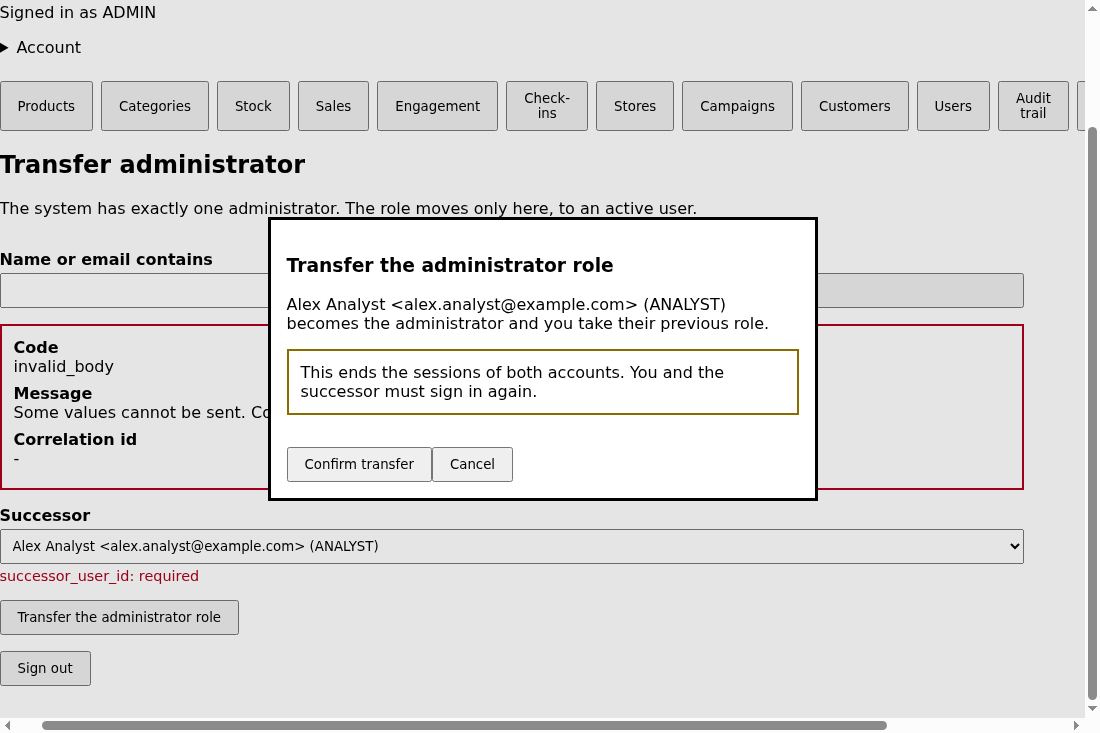
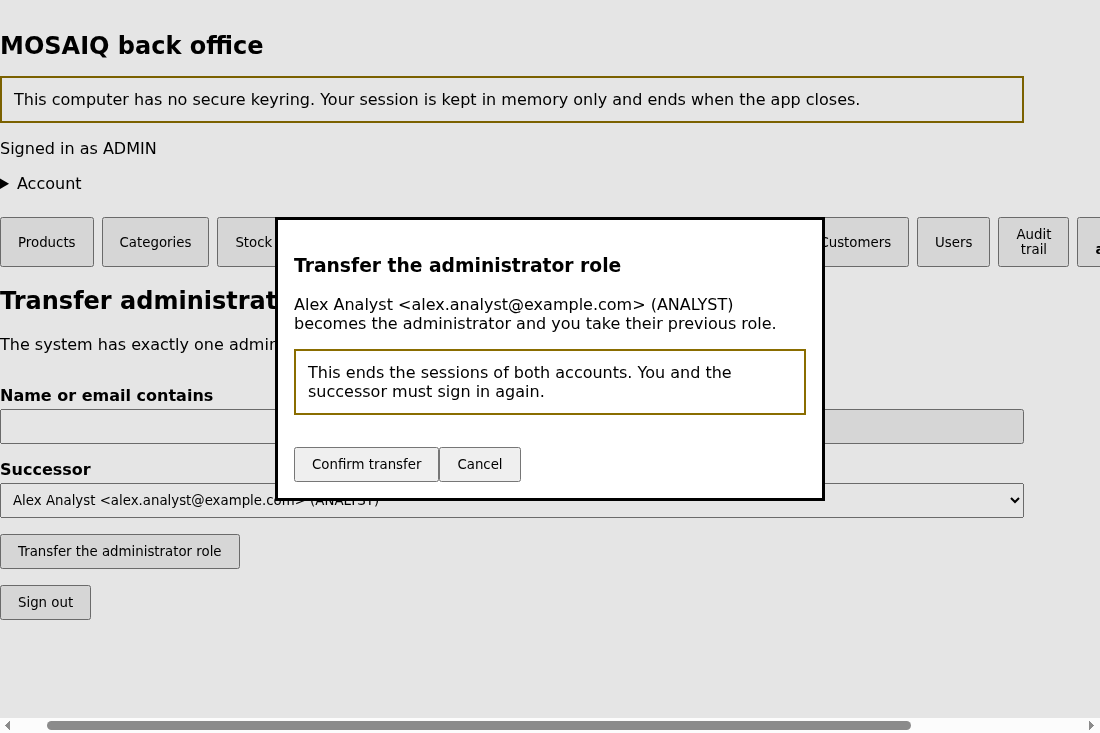
docs(evidence): capture the transfer warning before any refusal is on screen (#422)

diff --git a/clients/desktop/tests/window/users.spec.ts b/clients/desktop/tests/window/users.spec.ts
@@ -419,6 +419,14 @@ test('the transfer screen warns in a dialog, shows its refusals, and ends both s
     'Mia Marketing <mia.marketing@example.com> (MARKETING)',
   ]);
 
+  // The warning, captured before any refusal is on screen.
+  await page.selectOption('#transfer-successor_user_id', ALEX);
+  await page.getByRole('button', { name: 'Transfer the administrator role' }).click();
+  await expect(page.getByTestId('transfer-warning')).toContainText('ends the sessions of both accounts');
+  await shot(page, '484-desktop-transfer-02-warning-dialog');
+  await page.getByRole('button', { name: 'Cancel' }).click();
+  await page.selectOption('#transfer-successor_user_id', '');
+
   // No successor chosen: refused before sending.
   await page.getByRole('button', { name: 'Transfer the administrator role' }).click();
   await expect(page.getByTestId('transfer-dialog')).toBeVisible();
@@ -430,7 +438,6 @@ test('the transfer screen warns in a dialog, shows its refusals, and ends both s
   await page.selectOption('#transfer-successor_user_id', ALEX);
   await page.getByRole('button', { name: 'Transfer the administrator role' }).click();
   await expect(page.getByTestId('transfer-warning')).toContainText('ends the sessions of both accounts');
-  await shot(page, '484-desktop-transfer-02-warning-dialog');
   await page.getByTestId('cancel-transfer').click();
   await expect(page.getByTestId('transfer-dialog')).toBeHidden();
   expect(seen.some((s) => s.url.endsWith('/administrator-transfers'))).toBe(false);

diff --git a/docs/evidence/422-desktop-screens.md b/docs/evidence/422-desktop-screens.md
@@ -58,7 +58,7 @@ in [`414-desktop-customers.md`](414-desktop-customers.md). One more shot of it i
 | Screenshot | What it shows |
 |---|---|
 | `484-desktop-users-01-list-and-detail.png` | The users list filtered to an inactive user and its detail; accounts are deactivated, never deleted. |
-| `484-desktop-transfer-02-warning-dialog.png` | The transfer confirmation dialog, warning that both accounts' sessions end. The refusal behind it is the earlier "no successor chosen" check, refused before sending. |
+| `484-desktop-transfer-02-warning-dialog.png` | The transfer confirmation dialog, warning that both accounts' sessions end. |
 | `484-desktop-transfer-03-successor-inactive.png` | The service refuses an inactive successor: `successor_inactive`, shown as returned. The one-administrator rule stays with the service. |
 
 ## F16-07 (#485): store locations and geofences
